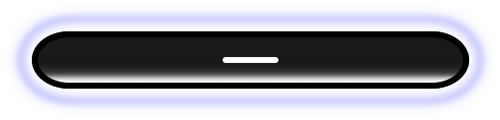
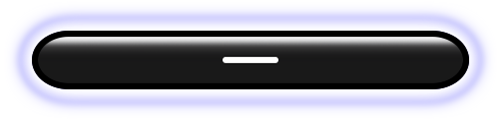
fixed hold tile

Changed region(s): [[0.06, 0.575, 0.93, 0.75], [0.06, 0.25, 0.93, 0.425]]

diff --git a/frontend/src/GameViewComponents/HoldTile.jsx b/frontend/src/GameViewComponents/HoldTile.jsx
@@ -10,6 +10,7 @@ const HoldTile = ({ type, tileSpeed, targetTime, elapseBeatCount, elapseTime, on
     const barClipRef = useRef(null)
     const barClipTapRef = useRef(null)
     const timingFunctionMove = "cubic-bezier(0.4, 0.1, 0.7, 0.4)"
+    const timingFunctionMoveBar = "cubic-bezier(0.95, 0.9, 1.0, 0.9)"
     const timingFunctionOpacity = "cubic-bezier(0.0, 0.7, 0.0, 0.9)"
     const [isUnloaded, setIsUnloaded] = useState(false)
     const [tapPositionY, setTapPositionY] = useState(null)
@@ -22,25 +23,7 @@ const HoldTile = ({ type, tileSpeed, targetTime, elapseBeatCount, elapseTime, on
             onMount(type, targetTime, controller)
         }
         loadTile()
-        // window.addEventListener("keydown", handleDown)
-        // window.addEventListener("keyup", handleUp)
-        // return () => {
-        //     window.removeEventListener("keydown", handleDown)
-        //     window.removeEventListener("keyup", handleUp)
-        // }
     }, [])
-
-    // const tapped = useRef(false)
-    // const handleDown = () => {
-    //     if (!tapped.current) {
-    //         tapped.current = true
-    //         controller("hold", "perfect")
-    //     }
-    // }
-    // const handleUp = () => {
-    //     tapped.current = false
-    //     controller("release")
-    // }
 
     const controller = (instructions, options = null) => {
         switch (instructions) {
@@ -114,7 +97,7 @@ const HoldTile = ({ type, tileSpeed, targetTime, elapseBeatCount, elapseTime, on
                 const tileBox = tile.getBoundingClientRect()
                 setTapPositionY(tileBox.top + tileBox.height / 2)
                 const bar = barRef.current
-                bar.style.animation = `move-y-bar-tapped ${elapseTime + "s"} ${timingFunctionMove}`
+                bar.style.animation = `move-y-bar-tapped-${id} ${elapseTime + "s"} ${timingFunctionMoveBar}`
                 scoreIncrementer.current = setInterval(() => {
                     updateScoreAndCombo(accuracy)
                 }, elapseTime / (elapseBeatCount - 1) * 1000)
@@ -164,7 +147,7 @@ const HoldTile = ({ type, tileSpeed, targetTime, elapseBeatCount, elapseTime, on
                 <div className="bar-clip" ref={barClipRef}>
                     <div className="bar" ref={barRef} onAnimationEnd={handleFinish}>
                         <style>{`
-                            @keyframes move-y-bar-tapped {
+                            @keyframes move-y-bar-tapped-${id} {
                                 from { 
                                     bottom: ${window.innerHeight - tapPositionY}px; 
                                     opacity: 1;

diff --git a/frontend/src/GameViewComponents/TileGenerator.jsx b/frontend/src/GameViewComponents/TileGenerator.jsx
@@ -8,8 +8,8 @@ const TileGenerator = ({ beatmapObj, onMount, tileSpeed, updateScoreAndCombo, ge
 
     const [beatmapIndex, setBeatmapIndex] = useState(null)
     const [currentTiles, setCurrentTiles] = useState(
-        Array.apply(null, Array(30)).map((nul, index) => {
-            return {beatNumber: -1, type: "placeholder", id: index - 30}
+        Array.apply(null, Array(40)).map((nul, index) => {
+            return {beatNumber: -1, type: "placeholder", id: index - 40}
         })
     )
     const currentTilesRef = useRef(currentTiles)
@@ -131,7 +131,7 @@ const TileGenerator = ({ beatmapObj, onMount, tileSpeed, updateScoreAndCombo, ge
         const key = type + String(targetTime)
         missedTiles.current.push(key)
         updateScoreAndCombo("miss")
-        if (missedTiles.current.length > 30) {
+        if (missedTiles.current.length > 40) {
             missedTiles.current.shift()
         }
     }
@@ -149,7 +149,7 @@ const TileGenerator = ({ beatmapObj, onMount, tileSpeed, updateScoreAndCombo, ge
                 !missedTiles.current.includes(key)) {
                 closestTargetTime = tiles[i].targetTime
                 tappedTiles.current.push(key)
-                if (tappedTiles.current.length > 30) {
+                if (tappedTiles.current.length > 40) {
                     tappedTiles.current.shift()
                 }
                 break
@@ -199,7 +199,7 @@ const TileGenerator = ({ beatmapObj, onMount, tileSpeed, updateScoreAndCombo, ge
                 !missedTiles.current.includes(key)) {
                 closestTargetTime = tiles[i].targetTime
                 missedTiles.current.push(key)
-                if (missedTiles.current.length > 30) {
+                if (missedTiles.current.length > 40) {
                     missedTiles.current.shift()
                 }
                 break
